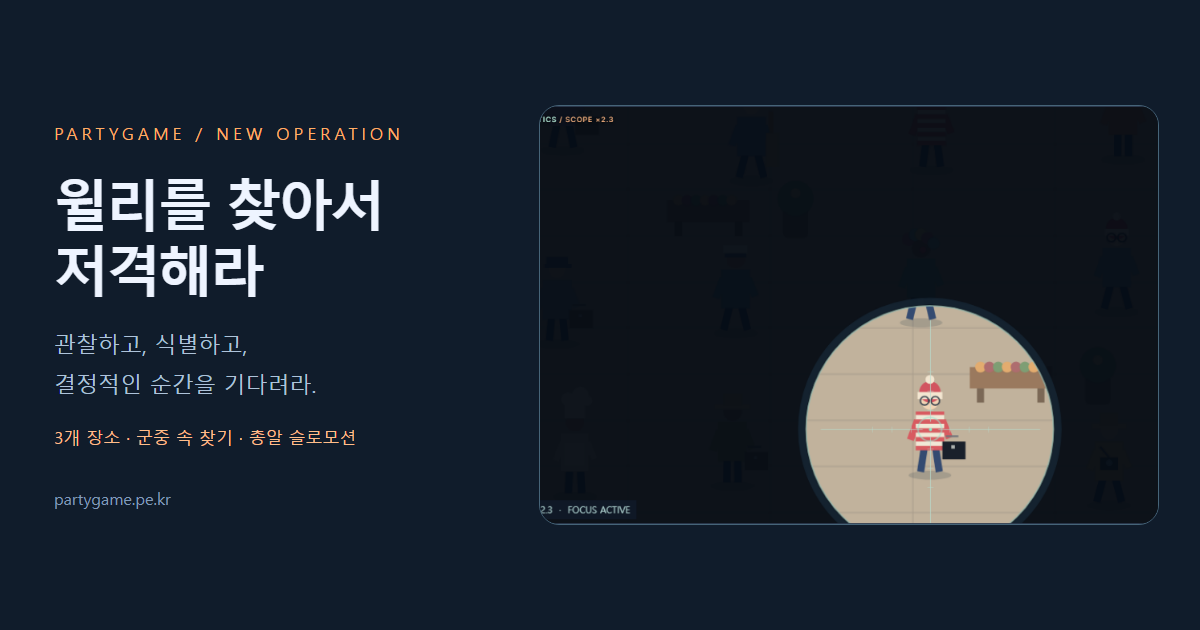
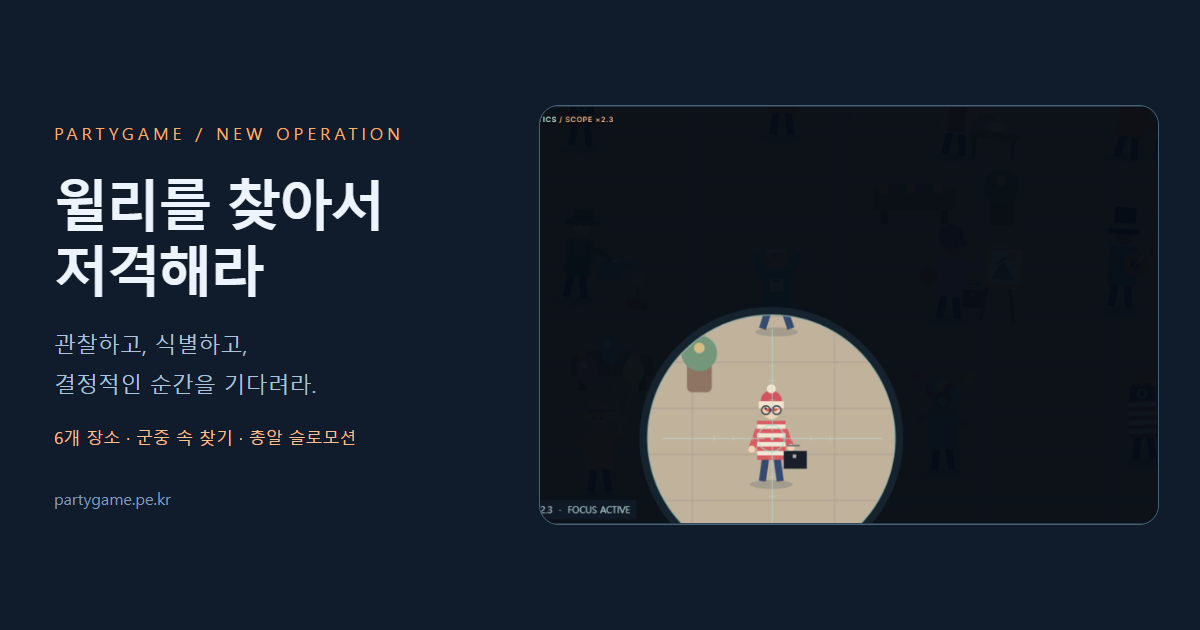
Expand Willy with six maps and eight new character activities

Changed region(s): [[0.5242, 0.4825, 0.8942, 0.8444]]

diff --git a/scripts/shadow-sniper.js b/scripts/shadow-sniper.js
@@ -7,7 +7,7 @@ sniperEl('sniperBest').textContent=sniperBest.toLocaleString('ko-KR');
 function sniperMessage(text){if(lastMessage!==text){lastMessage=text;sniperEl('sniperStatus').textContent=text;}}
 function sniperClearInput(){aimKeys.clear();drag=null;sniper.holding=false;}
 function sniperSync(){
- const s=sniper,m=s.config;sniperEl('missionHud').textContent=String(s.mission+1).padStart(2,'0')+' / 03';sniperEl('timerHud').textContent=s.remaining.toFixed(1);sniperEl('ammoHud').textContent=s.reloadLeft>0?'장전 중':`${s.mag} / ${s.reserve}`;sniperEl('scoreHud').textContent=s.score.toLocaleString('ko-KR');sniperEl('focusText').textContent=Math.ceil(s.focus)+'%';sniperEl('focusBar').style.width=s.focus+'%';sniperEl('alertText').textContent=Math.round(s.alert)+'%';sniperEl('alertBar').style.width=s.alert+'%';sniperEl('targetProgress').textContent=`남은 표적 ${s.targetsLeft}명`;sniperEl('scopeBtn').setAttribute('aria-pressed',String(s.scoped));sniperEl('focusBtn').setAttribute('aria-pressed',String(s.holding));sniperEl('scopeLabel').textContent=s.scoped?' / SCOPE ×2.3':' / 관찰 모드';
+ const s=sniper,m=s.config;sniperEl('missionHud').textContent=String(s.mission+1).padStart(2,'0')+' / '+String(SNIPER_MISSIONS.length).padStart(2,'0');sniperEl('timerHud').textContent=s.remaining.toFixed(1);sniperEl('ammoHud').textContent=s.reloadLeft>0?'장전 중':`${s.mag} / ${s.reserve}`;sniperEl('scoreHud').textContent=s.score.toLocaleString('ko-KR');sniperEl('focusText').textContent=Math.ceil(s.focus)+'%';sniperEl('focusBar').style.width=s.focus+'%';sniperEl('alertText').textContent=Math.round(s.alert)+'%';sniperEl('alertBar').style.width=s.alert+'%';sniperEl('targetProgress').textContent=`남은 표적 ${s.targetsLeft}명`;sniperEl('scopeBtn').setAttribute('aria-pressed',String(s.scoped));sniperEl('focusBtn').setAttribute('aria-pressed',String(s.holding));sniperEl('scopeLabel').textContent=s.scoped?' / SCOPE ×2.3':' / 관찰 모드';
  const playing=s.state==='running';for(const id of ['scopeBtn','fireBtn','reloadBtn','focusBtn'])sniperEl(id).disabled=!playing;
  sniperEl('fireBtn').disabled=!playing||!s.scoped||s.cooldown>0||s.reloadLeft>0;
  sniperEl('reloadBtn').disabled=!playing||s.reloadLeft>0||s.mag===3||s.reserve===0;
@@ -20,7 +20,7 @@ function sniperSync(){
  if(renderedState===s.state)return;renderedState=s.state;sniperClearInput();sniperEl('missionOverlay').hidden=playing||s.state==='shot';sniperEl('restartCampaign').hidden=!['success','failed','won'].includes(s.state);const action=sniperEl('missionAction');action.disabled=!sniperReady;
  if(s.state==='briefing'){sniperEl('overlayCode').textContent=m.code;sniperEl('missionTitle').textContent=m.name;sniperEl('missionBrief').textContent=m.brief;sniperEl('overlayClues').textContent=m.clues.join(' / ');action.textContent='임무 시작';}
  else if(s.state==='paused'){sniperEl('overlayCode').textContent='OPERATION PAUSED';sniperEl('missionTitle').textContent='작전 일시정지';sniperEl('missionBrief').textContent='시간과 표적 이동이 멈췄습니다. 준비되면 임무를 계속하세요.';sniperEl('overlayClues').textContent='';action.textContent='계속하기';}
- else if(['success','failed','won'].includes(s.state)){const won=s.state==='won',success=s.state==='success';sniperEl('overlayCode').textContent=won?'ALL OPERATIONS COMPLETE':success?'TARGETS CONFIRMED':'OPERATION FAILED';sniperEl('missionTitle').textContent=won?'모든 임무를 완수했습니다':success?'임무 완수':'작전 중단';sniperEl('missionBrief').textContent=s.state==='failed'?s.failure:`누적 ${s.score.toLocaleString('ko-KR')}점 · 명중 ${s.totalHits}/${s.totalShots}발. ${won?'세 장소에서 윌리를 찾았습니다.':'다음 작전 브리핑을 확인하세요.'}`;sniperEl('overlayClues').textContent=s.state==='failed'?'재도전하면 현재 미션의 점수와 탄약이 초기화됩니다.':`정확도 ${s.totalShots?Math.round(s.totalHits/s.totalShots*100):0}% · 남은 시간 ${s.remaining.toFixed(1)}초`;action.textContent=won?'새 작전 시작':success?'다음 미션 브리핑':'이 미션 재도전';if(s.state!=='success'){sniperBest=Math.max(sniperBest,s.score);try{localStorage.setItem('shadowSniperBest',String(sniperBest));}catch{}sniperEl('sniperBest').textContent=sniperBest.toLocaleString('ko-KR');window.dispatchEvent(new CustomEvent('partygame:score',{detail:{gameId:'shadow-sniper',score:s.score,wave:s.mission+1}}));}}
+ else if(['success','failed','won'].includes(s.state)){const won=s.state==='won',success=s.state==='success';sniperEl('overlayCode').textContent=won?'ALL OPERATIONS COMPLETE':success?'TARGETS CONFIRMED':'OPERATION FAILED';sniperEl('missionTitle').textContent=won?'모든 임무를 완수했습니다':success?'임무 완수':'작전 중단';sniperEl('missionBrief').textContent=s.state==='failed'?s.failure:`누적 ${s.score.toLocaleString('ko-KR')}점 · 명중 ${s.totalHits}/${s.totalShots}발. ${won?'모든 장소에서 윌리를 찾았습니다.':'다음 작전 브리핑을 확인하세요.'}`;sniperEl('overlayClues').textContent=s.state==='failed'?'재도전하면 현재 미션의 점수와 탄약이 초기화됩니다.':`정확도 ${s.totalShots?Math.round(s.totalHits/s.totalShots*100):0}% · 남은 시간 ${s.remaining.toFixed(1)}초`;action.textContent=won?'새 작전 시작':success?'다음 미션 브리핑':'이 미션 재도전';if(s.state!=='success'){sniperBest=Math.max(sniperBest,s.score);try{localStorage.setItem('shadowSniperBest',String(sniperBest));}catch{}sniperEl('sniperBest').textContent=sniperBest.toLocaleString('ko-KR');window.dispatchEvent(new CustomEvent('partygame:score',{detail:{gameId:'shadow-sniper',score:s.score,wave:s.mission+1}}));}}
 }
 function sniperRestart(){sniper=new SniperGame();renderedState='';renderedMission=-1;sniperSync();}
 sniperEl('missionAction').onclick=()=>{if(!sniperReady)return;if(sniper.state==='briefing')sniper.start();else if(sniper.state==='paused')sniper.pause();else if(sniper.state==='success')sniper.next();else if(sniper.state==='failed')sniper.retry();else if(sniper.state==='won')sniperRestart();sniperSync();sniperEl('gameCanvas').focus({preventScroll:true});};
@@ -59,6 +59,38 @@ function makeSniperScene(){return class extends Phaser.Scene {
    for(const x of [10,920])for(let j=0;j<3;j++){g.lineStyle(1,0xa89cba).lineBetween(x+12,270+j*72,x+15,310+j*72);g.fillStyle([0xdf8f9c,0x94becd,0xcfb570][j]).fillEllipse(x+12,260+j*72,20,27);}
    for(let i=0;i<130;i++){const x=(i*157)%960,y=155+(i*97)%375;g.fillStyle([0xb58d9d,0xc7b880,0x84aca7][i%3],.6).fillRect(x,y,2,4);}
    for(let i=0;i<5;i++){const x=130+i*174,y=227+(i%3)*90;g.lineStyle(2,[0xc698b0,0x90bbb9,0xd7c388][i%3],.5).strokeCircle(x,y,14);g.lineStyle(1,0xaca6bb,.6).lineBetween(x-22,y,x+22,y).lineBetween(x,y-22,x,y+22);g.fillStyle(0xdccba1,.6).fillCircle(x,y,3);}
+  }else if(['garden','pier','station'].includes(m.theme)){
+   if(m.theme==='garden'){
+    g.fillStyle(0xbdded1).fillRect(0,0,960,170);g.fillStyle(0xf5e3a9).fillCircle(805,47,25);
+    for(let i=0;i<9;i++){const x=i*120;g.fillStyle(0x508776).fillCircle(x,115,50);g.fillStyle(0x80ae88).fillCircle(x+18,94,35);}
+    g.fillStyle(0xa4c9b7).fillRect(290,55,335,105);poly([[270,55],[455,6],[645,55]],0xcee6de);
+    for(let i=0;i<8;i++){g.lineStyle(3,0x6b9690).lineBetween(292+i*47,57,292+i*47,158);g.lineStyle(1,0xeff4d8,.8).lineBetween(302+i*43,62,302+i*43,143);}
+    g.fillStyle(0x91b688).fillRect(0,160,960,380);g.fillStyle(0xd7cdb1).fillRect(0,175,960,340);
+    for(let i=0;i<90;i++){const x=i*137%960,y=180+i*67%340;g.lineStyle(1,0xb9b49b,.5).lineBetween(x,y,x+25,y);}
+    for(const x of [22,925])for(let y=210;y<520;y+=70){g.fillStyle(0x658d67).fillCircle(x,y,20);for(let j=0;j<4;j++)g.fillStyle([0xf1b6c1,0xe9d780,0xc2b5df][j%3]).fillCircle(x-10+j*7,y-8+j%2*8,4);}
+   }else if(m.theme==='pier'){
+    g.fillStyle(0xe9baa4).fillRect(0,0,960,100);g.fillStyle(0xf6dda4).fillCircle(720,53,32);g.fillStyle(0x719eac).fillRect(0,100,960,90);
+    for(let i=0;i<35;i++){const x=i*117%960,y=110+i*13%70;g.lineStyle(2,0xf0d9b1,.45).lineBetween(x,y,x+35,y);}
+    g.fillStyle(0xd7ba8c).fillRect(0,180,960,360);g.fillStyle(0xb89679).fillRect(40,180,880,360);
+    for(let y=190;y<540;y+=22){g.lineStyle(1,0x806d62,.5).lineBetween(40,y,920,y);for(let x=60;x<920;x+=110)g.fillStyle(0x725f55,.5).fillCircle(x,y+4,1);}
+    g.lineStyle(5,0xe2c4a0).lineBetween(40,164,920,164);for(let x=45;x<940;x+=70)g.fillStyle(0x8d7567).fillRect(x,153,6,37);
+    for(const x of [80,365,835]){g.fillStyle(0x756f79).fillRect(x,75,4,77);poly([[x-40,122],[x+42,122],[x+28,138],[x-25,138]],0x8b6271);poly([[x-3,78],[x-3,115],[x-32,115]],0xf4dfb9);}
+    for(const x of [14,930]){g.fillStyle(0x8a7064).fillRect(x,60,7,120);for(let i=0;i<5;i++)poly([[x+3,63],[x-45+i*19,35+i%2*17],[x-35+i*18,74]],0x627d69);}
+   }else{
+    g.fillStyle(0x617b8d).fillRect(0,0,960,160);g.fillStyle(0xbfcaca).fillRect(0,20,960,16);
+    for(let x=0;x<960;x+=120){poly([[x,0],[x+60,57],[x+120,0]],0x405c71);g.lineStyle(3,0x8fa4ae).lineBetween(x,0,x+60,57).lineBetween(x+60,57,x+120,0);}
+    g.fillStyle(0x365973).fillRoundedRect(24,65,912,98,17);g.fillStyle(0xe0b776).fillRect(25,133,910,8);
+    for(let i=0;i<15;i++){const x=45+i*59;g.fillStyle(0xa8c7cb).fillRoundedRect(x,78,40,37,4);g.fillStyle(0x607f91).fillRect(x+4,104,32,7);}
+    g.fillStyle(0xc1bcae).fillRect(0,163,960,377);g.fillStyle(0xe5c171).fillRect(0,164,960,8);
+    for(let y=185;y<540;y+=32){g.lineStyle(1,0x9d9f99,.6).lineBetween(0,y,960,y);for(let x=(y%64?0:48);x<960;x+=96)g.lineBetween(x,y,x,y+32);}
+    for(const x of [25,925]){g.fillStyle(0x4e697a).fillRect(x,0,10,220);g.fillStyle(0x304a60).fillRect(x-10,206,30,10);}
+    g.fillStyle(0x263d50).fillRoundedRect(360,13,240,42,4);g.fillStyle(0xe6c990).fillRect(377,26,112,5).fillRect(377,38,84,4);
+    g.fillStyle(0xe9e6cc).fillCircle(558,34,16);g.lineStyle(2,0x405969).lineBetween(558,34,558,23).lineBetween(558,34,566,38);
+   }
+   for(const o of sniper.obstacles){
+    if(m.theme==='garden'){g.fillStyle(0x8a8670).fillRoundedRect(o.x-o.rx,o.y-o.ry,o.rx*2,o.ry*2,8);g.fillStyle(0x63845e).fillEllipse(o.x,o.y-6,53,26);for(let j=0;j<7;j++)g.fillStyle([0xeaa6b8,0xebd277,0xb49dd0][j%3]).fillCircle(o.x-22+j*7,o.y-7+(j%2)*6,4);}
+    else{g.fillStyle(m.theme==='pier'?0x9e7371:0x667f81).fillRect(o.x-o.rx,o.y-10,o.rx*2,8).fillRect(o.x-o.rx,o.y+1,o.rx*2,5);g.fillStyle(0x5a666b).fillRect(o.x-o.rx+3,o.y+6,4,6).fillRect(o.x+o.rx-7,o.y+6,4,6);}
+   }
   }else{
    poly([[0,148],[140,8],[290,151]],0xbfd0db);poly([[200,153],[410,0],[610,153]],0xd6e0e4);poly([[510,153],[760,9],[960,153]],0xb9cbdc);poly([[335,55],[410,0],[482,55],[441,46],[412,66],[387,45]],0xf0ece5);
    g.fillStyle(0xd6e2e3).fillRect(0,155,960,385);g.fillStyle(0xb8cfd8,.6).fillEllipse(465,340,890,310);for(let y=170;y<540;y+=46){g.lineStyle(1,0xa1becd,.4).lineBetween(0,y,960,y+15);}
@@ -76,11 +108,25 @@ function makeSniperScene(){return class extends Phaser.Scene {
    if(a.stripes)for(let i=0;i<4;i++)rect(-8,-32+i*5,16,2.5,0xf0e8d6);
    if(a.cap){rect(-6,-47,12,5,0x506888);rect(-7,-43,15,2,0x506888);}if(a.helmet){circle(0,-44,6,0xe8ca76);rect(-8,-43,16,3,0xe8ca76);}if(a.visor){rect(-7,-45,14,7,0x435d69);rect(-6,-44,12,3,0x9de9d1);}
    if(a.hat==='beanie'){circle(0,-45,6,0xd25460);rect(-7,-45,14,4,0xf3e6d1);circle(0,-52,2.5,0xf3e6d1);}if(a.hat==='sailor'){rect(-7,-48,14,5,0xe4e4d8);rect(-6,-43,12,2,0x526b8a);}if(a.hat==='chef'){rect(-6,-52,12,10,0xf2ead8);circle(-4,-53,4,0xf2ead8);circle(3,-55,5,0xf2ead8);circle(7,-52,3,0xf2ead8);rect(-6,-29,12,14,0xf0e6d6);}if(a.hat==='beret'){circle(-2,-46,7,0x816590);rect(-7,-44,14,3,0x816590);}if(a.hat==='sunhat'||a.hat==='explorer'){rect(-10,-44,20,3,0xe3c391);rect(-5,-50,10,7,0xd5b17b);}if(a.hat==='clown'){for(let j=0;j<5;j++)circle(-7+j*3.5,-45-Math.sin(j)*3,3.5,[0xc87982,0x8bbdc3,0xe7cf82][j%3]);circle(1,-39,2,0xdf6d77);}if(a.hat==='tophat'){rect(-6,-56,12,14,0x404155);rect(-9,-44,18,3,0x404155);rect(-6,-47,12,3,0xc8b88f);}
+   if(['garden','fisher','boater'].includes(a.hat)){const color=a.hat==='garden'?0x5c8662:a.hat==='fisher'?0xa58a62:0xe7ca91;rect(-6,-50,12,8,color);rect(-10,-44,20,3,color);rect(-6,-46,12,2,a.hat==='boater'?0xb7757a:0x455e57);}
+   if(a.hat==='headband')rect(-6,-45,12,2,0xf1ead5);
+   if(a.hat==='band'){rect(-6,-53,12,11,0x4c647a);rect(-8,-44,16,2,0xe2c385);circle(0,-55,3,0xd7a976);}
+   if(a.hat==='baker'){circle(-3,-48,5,0xf2e7cf);circle(3,-48,5,0xf2e7cf);rect(-6,-46,12,4,0xf2e7cf);rect(-5,-29,10,16,0xab7b60);}
+   if(a.role==='정원사'){rect(-6,-24,12,12,0x4d7667);line(-5,-32,-4,-22,2,0x4d7667);line(5,-32,4,-22,2,0x4d7667);}
+   if(a.role==='과학자'){line(0,-33,0,-13,1,0x829b9c);rect(-6,-25,4,5,0x9cbcc5);}
    if(!fallen){const glance=(a.motion?.gaze??pose.facing??1)*1.2;circle(-2+glance,-41,.65,0x394754);circle(2+glance,-41,.65,0x394754);}
    if(a.glasses){for(const x of [-3,3]){const p=pt(x,-40);g.lineStyle(.8,0x3d4651).strokeCircle(p.x,p.y,2.4);}line(-1,-40,1,-40,.6,0x3d4651);}
    if(a.scarf){rect(-7,-35,14,3.5,a.scarf);rect(3,-32,4,9,a.scarf);}if(a.case){line(9,-20,16,-20,1,0x6f737b);rect(7,-17,13,10,a.target?0x19202b:0x71615b);rect(12,-15,2,2,0xadb2b0);}
    if(fallen)return;
    const action=a.action,steam=(x,y)=>{for(let i=0;i<3;i++){const h=(t*8+i*5)%16;circle(x+Math.sin(t*2+i)*2,y-h,1,0xf4e9d1);}},note=(x,y)=>{circle(x,y,2,0xeacb7f);line(x+2,y,x+2,y-8,1,0xeacb7f);line(x+2,y-8,x+6,y-6,1,0xeacb7f);};
+   if(action==='water'){rect(12,-22,13,10,0x749eae);line(22,-19,31,-23,3,0x749eae);for(let i=0;i<4;i++){const q=(pose.prop+i*.23)%1;circle(30+q*6,-22+q*20,1,0x9cd6de);}rect(29,-3,12,6,0xb28b69);line(35,-4,35,-13,2,0x6c9d69);circle(35,-14,4,0xe6bd8d);}
+   if(action==='read'){shape([[-11,-32],[0,-29],[11,-32],[11,-20],[0,-17],[-11,-20]],0xeee3c6);line(0,-29,0,-17,1,0x987f74);for(let j=0;j<3;j++){line(-8,-28+j*3,-3,-27+j*3,.6,0x9a9583);line(3,-27+j*3,8,-28+j*3,.6,0x9a9583);}if(pose.prop>.8)line(0,-29,5,-32+(pose.prop-.8)*50,1,0xf7efd9);}
+   if(action==='fish'){line(right.x,right.y,31,-65,1.5,0x8b755f);line(31,-65,41,-5+Math.sin(t*1.8)*3,.7,0xc5d4ce);circle(41,-3+Math.sin(t*1.8)*3,2,0xe79885);}
+   if(action==='balloon')for(let j=0;j<3;j++){const x=-6+j*13+pose.prop*4,y=-68-(j%2)*12;line(right.x,right.y,x,y+7,.7,0xe3d6be);const p=pt(x,y);g.fillStyle([0xe99fa9,0x8ccbd3,0xe9cf82][j]).fillEllipse(p.x,p.y,12,16);circle(x-2,y-3,2,0xf7e9d5);}
+   if(action==='inspect'){line(right.x,right.y,right.x+6,right.y-7,2,0x6b727d);const p=pt(right.x+7,right.y-10);g.lineStyle(1.7,0xb6d9dc).strokeCircle(p.x,p.y,5);}
+   if(action==='stretch'){rect(-4,-28,8,7,0xe8eee1);line(-2,-27,2,-27,1,0x44888f);}
+   if(action==='drum'){rect(-12,-22,24,14,0xb37178);rect(-13,-24,26,3,0xf0d7a4);rect(-13,-10,26,3,0xe3bd83);for(let i=0;i<4;i++)line(-10+i*6,-21,-7+i*6,-11,1,0xf0d7a4);line(left.x,left.y,0,-23,1.5,0xdfbc88);line(right.x,right.y,5,-23,1.5,0xdfbc88);}
+   if(action==='knead'){rect(8,-15,28,4,0xa18163);line(11,-11,11,0,2,0x806a59);line(33,-11,33,0,2,0x806a59);const p=pt(22,-18);g.fillStyle(0xf1dcb0).fillEllipse(p.x,p.y,14+Math.sin(t*3.2)*2,6);line(left.x,left.y,right.x,right.y,4,0xb9976f);}
    if(action==='photo'){const y=pose.prop?-41:-26;rect(-7,y,14,8,0x3f4d59);circle(0,y+4,3,0x8da9ba);circle(0,y+4,1.5,0x203c50);if(pose.prop&&t%4>1.95&&t%4<2.12){line(8,y,16,y-7,2,0xfff1b0);line(10,y+2,20,y+2,2,0xfff1b0);}}
    if(action==='carry'){rect(-14,-27,28,17,0xb48a5f);rect(-12,-24,24,2,0xe5bc80);line(-12,-12,12,-25,2,0x816449);line(-12,-25,12,-12,2,0x816449);}
    if(action==='paint'){line(23,-39,18,0,2,0x9c7758);line(29,-39,37,0,2,0x9c7758);rect(19,-43,21,24,0xe5c58e);rect(21,-41,17,19,0xf4ead5);shape([[22,-24],[28,-35],[36,-24]],0x7fae9a);circle(33,-37,3,0xe6b268);circle(left.x,left.y,5,0xb88c67);circle(left.x-2,left.y,1.5,0xd96573);line(right.x,right.y,right.x+6,right.y-4,1,0x485979);}

diff --git a/arcade/shadow-sniper.html b/arcade/shadow-sniper.html
@@ -2,11 +2,11 @@
 <html lang="ko"><head>
 <meta charset="UTF-8"><meta name="viewport" content="width=device-width, initial-scale=1, viewport-fit=cover">
 <title>윌리를 찾아서 저격해라 | 저격 미션 게임 · PartyGame</title>
-<meta name="description" content="항구 시장, 야간 축제, 눈꽃 마을의 군중 속에서 윌리를 찾고 저격하세요. 총알 슬로모션, 스코프 조준과 다양한 캐릭터를 만나는 무료 브라우저 게임.">
+<meta name="description" content="항구 시장·축제·눈꽃 마을·식물원·해변·중앙역의 군중 속에서 윌리를 찾고 저격하세요. 총알 슬로모션, 스코프 조준과 다양한 캐릭터를 만나는 무료 브라우저 게임.">
 <meta name="keywords" content="저격 게임,스나이퍼,암살 미션,브라우저 게임,무료 게임"><meta name="robots" content="index, follow"><meta name="theme-color" content="#0d111a">
 <link rel="canonical" href="https://partygame.pe.kr/arcade/shadow-sniper.html"><link rel="icon" href="/favicon.ico">
-<meta property="og:type" content="website"><meta property="og:site_name" content="PartyGame"><meta property="og:title" content="윌리를 찾아서 저격해라 | 저격 미션 게임"><meta property="og:description" content="개성 있는 인물들 속에서 윌리를 찾는 세 개의 스테이지."><meta property="og:url" content="https://partygame.pe.kr/arcade/shadow-sniper.html"><meta property="og:image" content="https://partygame.pe.kr/assets/games/shadow-sniper/share.png"><meta property="og:image:width" content="1200"><meta property="og:image:height" content="630"><meta property="og:image:alt" content="윌리를 찾아서 저격해라 스코프 조준 게임 화면">
-<meta name="twitter:card" content="summary_large_image"><meta name="twitter:title" content="윌리를 찾아서 저격해라"><meta name="twitter:description" content="항구 시장·별빛 축제·눈꽃 마을에서 윌리를 찾고 저격하세요."><meta name="twitter:image" content="https://partygame.pe.kr/assets/games/shadow-sniper/share.png">
+<meta property="og:type" content="website"><meta property="og:site_name" content="PartyGame"><meta property="og:title" content="윌리를 찾아서 저격해라 | 저격 미션 게임"><meta property="og:description" content="개성 있는 인물들 속에서 윌리를 찾는 여섯 개의 스테이지."><meta property="og:url" content="https://partygame.pe.kr/arcade/shadow-sniper.html"><meta property="og:image" content="https://partygame.pe.kr/assets/games/shadow-sniper/share.png"><meta property="og:image:width" content="1200"><meta property="og:image:height" content="630"><meta property="og:image:alt" content="윌리를 찾아서 저격해라 스코프 조준 게임 화면">
+<meta name="twitter:card" content="summary_large_image"><meta name="twitter:title" content="윌리를 찾아서 저격해라"><meta name="twitter:description" content="여섯 장소에서 윌리를 찾고 저격하세요."><meta name="twitter:image" content="https://partygame.pe.kr/assets/games/shadow-sniper/share.png">
 <script>(function(w,d,s,l,i){w[l]=w[l]||[];w[l].push({'gtm.start':new Date().getTime(),event:'gtm.js'});var f=d.getElementsByTagName(s)[0],j=d.createElement(s),dl=l!='dataLayer'?'&l='+l:'';j.async=true;j.src='https://www.googletagmanager.com/gtm.js?id='+i+dl;f.parentNode.insertBefore(j,f);})(window,document,'script','dataLayer','GTM-T2KDKBN8');</script>
 <meta name="google-adsense-account" content="ca-pub-1087435977438565"><script async src="https://pagead2.googlesyndication.com/pagead/js/adsbygoogle.js?client=ca-pub-1087435977438565" crossorigin="anonymous"></script>
 <script src="/scripts/site-layout.js" defer></script><link rel="stylesheet" href="/styles/site-design.css">
@@ -18,9 +18,9 @@ body{margin:0}button{font:inherit;cursor:pointer}button:disabled{opacity:.4;curs
 </style>
 </head><body><site-header></site-header><noscript><p>게임을 실행하려면 JavaScript를 켜 주세요.</p><iframe src="https://www.googletagmanager.com/ns.html?id=GTM-T2KDKBN8" height="0" width="0" style="display:none;visibility:hidden"></iframe></noscript>
 <main class="sniper-shell" id="mainContent" tabindex="-1">
-<header class="sniper-heading"><div><div class="kicker">HIDDEN IN PLAIN SIGHT</div><h1>윌리를 찾아서 저격해라</h1><p class="sub">빨간 모자, 줄무늬 옷, 그리고 결정적인 단서.<br>항구 시장부터 눈꽃 마을까지, 군중 속 윌리를 찾아라.</p></div><span class="classification">FIND WILLY / 3 STAGES</span></header>
+<header class="sniper-heading"><div><div class="kicker">HIDDEN IN PLAIN SIGHT</div><h1>윌리를 찾아서 저격해라</h1><p class="sub">빨간 모자, 줄무늬 옷, 그리고 결정적인 단서.<br>항구 시장부터 중앙역까지, 군중 속 윌리를 찾아라.</p></div><span class="classification">FIND WILLY / 6 STAGES</span></header>
 <div class="sniper-layout"><section class="sniper-panel" aria-label="저격 미션 게임">
-<div class="sniper-hud"><div><small>OPERATION</small><strong id="missionHud">01 / 03</strong></div><div><small>남은 시간</small><strong id="timerHud">100.0</strong></div><div><small>탄창 / 예비</small><strong id="ammoHud" class="amber">3 / 9</strong></div><div><small>점수</small><strong id="scoreHud">0</strong></div></div>
+<div class="sniper-hud"><div><small>OPERATION</small><strong id="missionHud">01 / 06</strong></div><div><small>남은 시간</small><strong id="timerHud">100.0</strong></div><div><small>탄창 / 예비</small><strong id="ammoHud" class="amber">3 / 9</strong></div><div><small>점수</small><strong id="scoreHud">0</strong></div></div>
 <div class="sniper-stage" id="sniperViewport"><canvas id="gameCanvas" tabindex="0" aria-label="마우스 또는 드래그로 조준, 스페이스로 스코프 전환, F로 사격. 보호 대상을 쏘지 마세요."></canvas><div class="scope-note" aria-hidden="true">SHADOW OPTICS <span id="scopeLabel"> / 관찰 모드</span></div><div class="sniper-overlay" id="missionOverlay"><div><div class="kicker" id="overlayCode">OPERATION 01</div><h2 id="missionTitle">북적이는 항구 시장</h2><p id="missionBrief">임무를 불러오고 있습니다.</p><div class="brief-clues" id="overlayClues"></div><div class="overlay-actions"><button class="sniper-btn primary" id="missionAction" disabled>전장 준비 중…</button><button class="sniper-btn" id="restartCampaign" hidden>처음부터</button></div></div></div></div>
 <p id="fieldIntel" style="margin:0;padding:9px 14px;background:#101a29;border-top:1px solid #2c3b50;font-size:11px;color:#abdccc;min-height:34px">스코프로 인물의 외형을 관찰하세요.</p>
 <div class="sniper-controls"><button class="sniper-btn" id="scopeBtn" aria-pressed="false" disabled>스코프<kbd>SPACE</kbd></button><button class="sniper-btn primary" id="fireBtn" disabled>사격<kbd>F</kbd></button><button class="sniper-btn" id="reloadBtn" disabled>재장전<kbd>R</kbd></button><button class="sniper-btn" id="focusBtn" aria-pressed="false" disabled>집중<kbd>SHIFT</kbd></button><button class="sniper-btn" id="pauseSniper" disabled>일시정지<kbd>P</kbd></button></div>
@@ -31,7 +31,7 @@ body{margin:0}button{font:inherit;cursor:pointer}button:disabled{opacity:.4;curs
 <section class="sniper-panel brief-card"><div class="kicker">PERSONAL RECORD</div><h2>이 브라우저 최고 기록</h2><div class="sniper-best" id="sniperBest">0</div><p>정확한 사격과 빠른 임무 완수에 추가 점수가 주어집니다. 미션 재도전 시 해당 미션의 점수는 초기화됩니다.</p></section>
 <section class="sniper-panel brief-card"><h2>윌리를 찾아서 저격해라 TOP 10</h2><ol id="firebaseRankingList"><li class="sub">온라인 기록을 불러오는 중…</li></ol><p id="firebaseRankingStatus" aria-live="polite">로그인 회원의 최고 기록을 저장합니다.</p></section>
 </aside></div>
-<section class="sniper-guide"><div class="kicker">FIELD MANUAL</div><h2>관찰이 먼저, 사격은 그다음</h2><div class="sniper-guide-grid"><div><h3>01. 단서를 모두 확인하세요</h3><p>빨간 털모자, 줄무늬 옷, 둥근 안경과 장소별 소지품을 조합해 윌리를 구별하세요. 비슷한 옷을 입은 보호 대상도 등장합니다. 스코프로 인물을 관찰하면 외형 정보가 표시됩니다.</p></div><div><h3>02. 기회를 기다리세요</h3><p>표적은 계속 이동하고, 마지막 미션에서는 가림막 뒤에 숨기도 합니다. 스코프를 켜고 집중하면 조준선의 흔들림이 줄어듭니다. 집중력이 소진되면 잠시 회복해야 합니다.</p></div><div><h3>03. 세 임무를 완수하세요</h3><p>항구 시장, 별빛 축제, 눈꽃 마을까지 이어지는 단일 플레이 작전입니다. 실패한 미션은 다시 도전할 수 있습니다. 각 장소에는 선원, 요리사, 화가, 관광객 등 다양한 인물과 윌리를 닮은 인물들이 등장합니다. 발사하면 총알이 날아가는 슬로모션과 명중·쓰러짐 연출이 이어집니다.</p></div></div><p class="sniper-help">모바일: 전장을 드래그해 조준하고 아래 사격 버튼을 누르세요. 스코프에서도 같은 방식으로 조준합니다. PC: 우클릭으로도 스코프를 전환할 수 있습니다.</p></section>
+<section class="sniper-guide"><div class="kicker">FIELD MANUAL</div><h2>관찰이 먼저, 사격은 그다음</h2><div class="sniper-guide-grid"><div><h3>01. 단서를 모두 확인하세요</h3><p>빨간 털모자, 줄무늬 옷, 둥근 안경과 장소별 소지품을 조합해 윌리를 구별하세요. 비슷한 옷을 입은 보호 대상도 등장합니다. 스코프로 인물을 관찰하면 외형 정보가 표시됩니다.</p></div><div><h3>02. 기회를 기다리세요</h3><p>표적은 계속 이동하고, 눈꽃 마을에서는 가림막 뒤에 숨기도 합니다. 스코프를 켜고 집중하면 조준선의 흔들림이 줄어듭니다. 집중력이 소진되면 잠시 회복해야 합니다.</p></div><div><h3>03. 여섯 임무를 완수하세요</h3><p>항구 시장부터 식물원, 해변 산책로, 중앙역까지 이어지는 단일 플레이 작전입니다. 실패한 미션은 다시 도전할 수 있습니다. 각 장소에는 선원, 요리사, 화가, 관광객 등 다양한 인물과 윌리를 닮은 인물들이 등장합니다. 발사하면 총알이 날아가는 슬로모션과 명중·쓰러짐 연출이 이어집니다.</p></div></div><p class="sniper-help">모바일: 전장을 드래그해 조준하고 아래 사격 버튼을 누르세요. 스코프에서도 같은 방식으로 조준합니다. PC: 우클릭으로도 스코프를 전환할 수 있습니다.</p></section>
 </main><site-footer></site-footer>
 <script type="module">import { initializeGameRanking } from '/scripts/firebase-game-ranking.js';initializeGameRanking({gameId:'shadow-sniper',gameName:'윌리를 찾아서 저격해라'});</script>
 <script src="https://cdn.jsdelivr.net/npm/phaser@4.2.1/dist/phaser.min.js"></script><script src="/scripts/sniper-core.js"></script><script src="/scripts/shadow-sniper.js"></script>

diff --git a/scripts/sniper-core.js b/scripts/sniper-core.js
@@ -14,10 +14,18 @@ function makeWillyCrowd(stage){
  {role:'스키어',coat:0xe7a7aa,visor:true,desc:'분홍 외투 · 초록 고글'},
  {role:'줄무늬 관광객',coat:0xca727a,stripes:true,hat:'sunhat',glasses:true,desc:'빨강 줄무늬 · 밀짚모자 · 안경'},
  {role:'빨간 모자 관광객',coat:0x7fa0b4,hat:'beanie',glasses:true,desc:'빨간 털모자 · 파란 옷 · 안경'},
- {role:'닮은 관광객',coat:0xd4656a,stripes:true,hat:'beanie',glasses:true,desc:'빨강 줄무늬 · 빨간 털모자 · 안경 · 가방과 스카프 없음'}];
- const cols=[9,11,13][stage],rows=[3,4,4][stage],gap=820/(cols-1),people=[];
+ {role:'닮은 관광객',coat:0xd4656a,stripes:true,hat:'beanie',glasses:true,desc:'빨강 줄무늬 · 빨간 털모자 · 안경 · 가방과 스카프 없음'},
+ {role:'정원사',coat:0x79a573,hat:'garden',desc:'초록 챙모자 · 멜빵 작업복'},
+ {role:'독서가',coat:0xb889ad,hat:'beret',glasses:true,desc:'자주색 외투 · 책 · 베레모'},
+ {role:'낚시꾼',coat:0xc6a16b,hat:'fisher',desc:'갈색 낚시 모자 · 낚싯대'},
+ {role:'풍선 상인',coat:0xeab27c,hat:'boater',desc:'리본 모자 · 색색의 풍선'},
+ {role:'과학자',coat:0xe0e9df,glasses:true,hat:'none',desc:'흰 실험 가운 · 확대경'},
+ {role:'운동선수',coat:0x65babc,hat:'headband',desc:'청록 운동복 · 흰 머리띠'},
+ {role:'드러머',coat:0xc78594,hat:'band',desc:'군악대 모자 · 작은 북'},
+ {role:'제빵사',coat:0xe3c8a4,hat:'baker',desc:'갈색 앞치마 · 둥근 제빵 모자'}];
+ const cols=[9,11,13,12,13,14][stage],rows=[3,4,4,4,4,4][stage],gap=820/(cols-1),people=[];
  for(let row=0;row<rows;row++)for(let col=0;col<cols;col++){const i=row*cols+col,role=roles[(i*5+stage*3)%roles.length];people.push({...role,x:70+col*gap+(i*11%17)-8,y:(stage===0?265+row*94:196+row*89)+(i*17%23)-11,range:4+(i*7%8),speed:.16+(i%4)*.05,skin:[0xe6c6a2,0xbe917a,0x947767,0xf2d4b5][i%4]});}
- const slot=people.splice([15,28,20][stage],1)[0];
+ const slot=people.splice([15,28,20,31,35,43][stage],1)[0];
  return {extras:people,position:slot};
 }
 const SNIPER_MISSIONS = [
@@ -25,20 +33,27 @@ const SNIPER_MISSIONS = [
  {name:'한밤의 별빛 축제',code:'02 / STARLIGHT FESTIVAL',theme:'festival',time:110,color:0x302b59,accent:0xe2b2ec,brief:'불빛과 공연으로 가득한 축제에서 윌리를 찾아보세요. 이번에는 줄무늬 옷과 빨간 털모자, 둥근 안경에 노란 스카프를 두르고 있습니다. 닮은 관광객에게 주의하세요.',clues:['빨강·흰 줄무늬 + 빨간 털모자','둥근 안경','노란 스카프'],targets:[],extras:[]},
  {name:'눈꽃 산장 마을',code:'03 / SNOWY VILLAGE',theme:'snow',time:120,color:0x9bb6cf,accent:0xb5e7e1,brief:'눈 내리는 산장 마을에 윌리가 숨어 있습니다. 빨간 줄무늬 옷과 털모자, 안경, 초록 스카프를 찾아보세요. 때때로 이동식 가림막 뒤에 숨으니 모습을 드러낼 때를 기다리세요.',clues:['빨강·흰 줄무늬 + 빨간 털모자','둥근 안경','초록 스카프 · 가림막 주의'],targets:[],extras:[]}
 ];
-SNIPER_MISSIONS.forEach((m,i)=>{const c=makeWillyCrowd(i);m.extras=c.extras;m.targets=[{...c.position,role:'윌리',coat:0xd85b61,stripes:true,hat:'beanie',glasses:true,case:i===0,scarf:i===1?0xf5d16a:i===2?0x6ed2a3:null,camera:false,instrument:false,visor:false,helmet:false,cap:false,cover:i===2,desc:i===0?'빨강 줄무늬 · 빨간 털모자 · 둥근 안경 · 검은 가방':i===1?'빨강 줄무늬 · 빨간 털모자 · 둥근 안경 · 노란 스카프':'빨강 줄무늬 · 빨간 털모자 · 둥근 안경 · 초록 스카프',target:true}];});
+SNIPER_MISSIONS.push(
+ {name:'햇살 가득 식물원',code:'04 / BOTANICAL GARDEN',theme:'garden',time:125,color:0xb2d4bb,accent:0xe5c583,brief:'온실과 화단 사이에서 윌리를 찾으세요. 정원사와 독서가, 나비를 관찰하는 과학자가 모였습니다. 파란 스카프를 확인하세요.',clues:['빨강·흰 줄무늬 + 빨간 털모자','둥근 안경','파란 스카프']},
+ {name:'노을빛 해변 산책로',code:'05 / SUNSET PIER',theme:'pier',time:130,color:0xe8b99e,accent:0xf2d38b,brief:'노을이 지는 해변 산책로에서 윌리를 찾으세요. 낚시와 풍선, 북 연주에 시선을 빼앗기지 마세요. 보라 스카프가 마지막 단서입니다.',clues:['빨강·흰 줄무늬 + 빨간 털모자','둥근 안경','보라 스카프']},
+ {name:'분주한 중앙역',code:'06 / CENTRAL STATION',theme:'station',time:140,color:0x9eafba,accent:0xe7bd72,brief:'열차가 도착한 중앙역에서 마지막 윌리를 찾으세요. 책을 읽는 승객과 빵을 만드는 상인 사이, 주황 스카프를 찾아보세요.',clues:['빨강·흰 줄무늬 + 빨간 털모자','둥근 안경','주황 스카프']}
+);
+SNIPER_MISSIONS.forEach((m,i)=>{const c=makeWillyCrowd(i);m.extras=c.extras;m.targets=[{...c.position,role:'윌리',coat:0xd85b61,stripes:true,hat:'beanie',glasses:true,case:i===0,scarf:[null,0xf5d16a,0x6ed2a3,0x6ba8e5,0xbc91d9,0xf1a261][i],camera:false,instrument:false,visor:false,helmet:false,cap:false,cover:i===2,desc:m.clues.join(' · '),target:true}];});
 // Activity poses drive both movement and rendering, so visible bodies and hit tests stay together.
 function sniperActivity(actor,theme){
  const byTheme={
   harbor:{'선원':'carry','요리사':'cook','화가':'paint','관광객':'photo','정비사':'repair','광대':'juggle','탐험가':'shop','음악가':'play','우편배달부':'walk','스키어':'sip','줄무늬 관광객':'photo','빨간 모자 관광객':'shop','닮은 관광객':'talk','윌리':'walk'},
   festival:{'선원':'clap','요리사':'serve','화가':'paint','관광객':'photo','정비사':'repair','광대':'juggle','탐험가':'dance','음악가':'play','우편배달부':'dance','스키어':'clap','줄무늬 관광객':'photo','빨간 모자 관광객':'sip','닮은 관광객':'wave','윌리':'dance'},
   snow:{'선원':'shovel','요리사':'serve','화가':'paint','관광객':'photo','정비사':'shovel','광대':'snowman','탐험가':'skate','음악가':'play','우편배달부':'walk','스키어':'ski','줄무늬 관광객':'snowman','빨간 모자 관광객':'sip','닮은 관광객':'wave','윌리':'walk'}
- };return byTheme[theme][actor.role]||'walk';
+ };const newRoles={'정원사':'water','독서가':'read','낚시꾼':'fish','풍선 상인':'balloon','과학자':'inspect','운동선수':'stretch','드러머':'drum','제빵사':'knead'};
+ return newRoles[actor.role]||(byTheme[theme]||byTheme[theme==='pier'?'harbor':'festival'])[actor.role]||'walk';
 }
 const sniperClamp=(n,min,max)=>Math.max(min,Math.min(max,n));
 // Ground footprints of the tables, planters and benches drawn by buildCity.
 function sniperObstacles(theme){
  if(theme==='harbor')return Array.from({length:5},(_,i)=>{const x=120+i*170,y=298+(i%2)*94;return[{x,y,rx:26,ry:14},{x:x+49,y,rx:13,ry:16}];}).flat();
  if(theme==='snow')return Array.from({length:4},(_,i)=>({x:140+i*215,y:222+(i%3)*89,rx:22,ry:14}));
+ if(['garden','pier','station'].includes(theme))return Array.from({length:4},(_,i)=>({x:150+i*220,y:245+(i%2)*160,rx:theme==='garden'?30:23,ry:theme==='garden'?19:12}));
  return [];
 }
 // Visibility graph paths go around inflated ground footprints, not through furniture.
@@ -120,6 +135,22 @@ function sniperActorPose(a,time){
   pose.left={x:-14,y:-40};pose.right={x:14,y:-40};pose.bob=3;pose.lean=-.08*pose.facing;
  }else if(a.action==='look'){
   pose.right={x:12,y:-30};pose.lean=Math.sin(t*1.4)*.04;
+ }else if(a.action==='water'){
+  pose.right={x:19+beat*2,y:-22};pose.left={x:4,y:-22};pose.lean=.1;pose.prop=(t%2)/2;
+ }else if(a.action==='read'){
+  pose.left={x:-8,y:-28};pose.right={x:8,y:-28+Math.sin(t*1.5)};pose.lean=.035;pose.prop=(t%5)/5;
+ }else if(a.action==='fish'){
+  pose.left={x:6,y:-26};pose.right={x:16,y:-30+Math.sin(t*1.8)*3};pose.lean=beat*.03;
+ }else if(a.action==='balloon'){
+  pose.left={x:-12,y:-25};pose.right={x:12,y:-32+beat*2};pose.prop=Math.sin(t*1.4);
+ }else if(a.action==='inspect'){
+  pose.right={x:10+beat*3,y:-39};pose.left={x:-9,y:-22};pose.lean=.08+beat*.03;
+ }else if(a.action==='stretch'){
+  pose.left={x:-13,y:-45-beat*7};pose.right={x:13,y:-45+beat*7};pose.lean=beat*.14;pose.legL.x=-8;pose.legR.x=8;
+ }else if(a.action==='drum'){
+  pose.left={x:-12,y:-23+beat*7};pose.right={x:12,y:-23-beat*7};pose.bob=-Math.abs(beat);
+ }else if(a.action==='knead'){
+  pose.left={x:12,y:-20+beat*3};pose.right={x:22,y:-20+beat*3};pose.lean=.1+Math.max(0,beat)*.1;
  }else if(a.action==='rest'){
   pose.left={x:-8,y:-16};pose.right={x:8,y:-16};pose.lean=.1;pose.bob=1+Math.sin(t*2.6)*.7;
  }
@@ -138,7 +169,7 @@ class SniperGame {
     this.obstacles=sniperObstacles(this.config.theme);
     for(const a of this.actors){
       a.homeAction=a.action;
-      const stationary=['paint','cook','repair','shop','snowman','shovel','play'].includes(a.action);
+      const stationary=['paint','cook','repair','shop','snowman','shovel','play','water','fish','knead','drum'].includes(a.action);
       a.motion={x:a.origin,y:a.originY,vx:0,vy:0,gait:a.phase,facing:a.id%2?1:-1,
         state:'activity',timer:1+this.random()*4,pace:14+this.random()*11,
         courage:this.random(),stationary,goal:{x:a.origin,y:a.originY},blend:1,fromPose:null,
@@ -149,7 +180,7 @@ class SniperGame {
       this.constrainActor(a);
       a.origin=a.motion.x;a.originY=a.motion.y;
     }
-    this.interests=this.actors.filter(a=>['play','paint','cook','snowman'].includes(a.homeAction))
+    this.interests=this.actors.filter(a=>['play','paint','cook','snowman','water','knead','drum'].includes(a.homeAction))
       .map(a=>({id:a.id,x:a.origin,y:a.originY,kind:a.homeAction}));
   }
   setBehavior(a,state,action,seconds){
@@ -208,7 +239,7 @@ class SniperGame {
     }
     candidates.sort((a,b)=>b.score-a.score);
     for(const c of candidates){if(!this.planRoute(a,c.goal))continue;
-      b.visit={id:c.spot.id,slot:c.slot,focus:{x:c.spot.x,y:c.spot.y},action:a.camera?'photo':c.spot.kind==='play'?'clap':'look'};b.replans=0;
+      b.visit={id:c.spot.id,slot:c.slot,focus:{x:c.spot.x,y:c.spot.y},action:a.camera?'photo':['play','drum'].includes(c.spot.kind)?'clap':'look'};b.replans=0;
       this.setBehavior(a,'travel','walk',12);return true;
     }
     return false;

diff --git a/rules/games/shadow-sniper.md b/rules/games/shadow-sniper.md
@@ -2,7 +2,9 @@
 
 - 페이지 `/arcade/shadow-sniper.html`, 게임 ID `shadow-sniper`, Phaser 4.2.1, 960 × 540.
 - 각 장소의 군중 속에서 외형 단서를 조합해 윌리를 식별. 다른 인물 오인 사격 시 실패.
-- 항구 시장 27명, 별빛 축제 44명, 눈꽃 산장 마을 52명. 선원·요리사·화가·광대·관광객 등 13개 복장과 소품 조합. 윌리의 위치는 매 도전마다 다른 인물과 교환하여 무작위 배치.
+- 6개 미션: 항구 시장 27명, 별빛 축제 44명, 눈꽃 산장 마을 52명, 식물원 48명, 노을 해변 산책로 52명, 중앙역 56명. 군중 역할 21종과 윌리로 구성. 윌리의 위치는 매 도전마다 다른 인물과 교환하여 무작위 배치.
+- 추가 역할 8종: 정원사(물주기), 독서가(책장 넘기기), 낚시꾼(낚싯대·찌), 풍선 상인(줄과 흔들리는 풍선), 과학자(확대경 관찰), 운동선수(스트레칭), 드러머(북 연주), 제빵사(반죽). 모자·복장·소품 및 팔·몸 동작을 구분하며 일시정지·사격 연출 중 함께 정지.
+- 식물원은 유리 온실·나무·화단, 해변은 노을·바다·범선·목재 산책로, 중앙역은 철골 지붕·열차·시계·승강장으로 구분. 신규 맵의 화단·벤치는 렌더링과 AI 경로 탐색이 같은 장애물 좌표를 사용.
 - 모든 인물은 장소·직업에 맞는 행동을 수행. 항구에서는 짐 운반·요리·장보기·사진 촬영, 축제에서는 춤·연주·박수·저글링, 눈꽃 마을에서는 스키·스케이트·제설·눈사람 만들기. 팔·다리·몸 기울기와 소품을 함께 움직이고 인물마다 동작 시차를 둠. 이동 위치는 명중 판정과 공유하며 활동과 소품 애니메이션은 일시정지·총알 추적 중 함께 정지.
 - 군중 AI는 직업 활동 → 목적지 이동 → 주변 관찰/인사 → 활동을 반복. 작업자는 작업 위치를 유지하고 이동자는 각자의 구역에서 무작위 목적지를 선택. 가속·감속, 이웃 회피, 탁자·화분·벤치 회피를 적용하며 막히면 대기 후 다시 행동. 걸음은 실제 이동 거리에 동기화하고 자세 전환을 보간.
 - 시설 모서리의 이동 지점을 연결해 짧은 우회 경로를 탐색하고, 이동 중 막히면 최대 두 번 재탐색. 작업 위치는 시작 시 시설 밖으로 보정해 복귀 목적지가 시설 안에 남지 않게 함. 걸을 때 번갈아 발을 들고, 달릴 때 몸을 더 기울이며, 대기 중에는 미세한 호흡 동작을 적용.
@@ -15,6 +17,7 @@
 - 실제 이동량에 따른 피로를 누적하고 속도를 최대 22% 낮춤. 안전한 상황에서 피로가 높으면 잠시 쉬며 회복하고, 위험 반응이 휴식보다 우선. 휴식 자세·피로·방문 예약은 일시정지와 사격 연출 중 함께 정지.
 - 명중·관찰 판정은 몸 기울기와 상하 움직임을 반영하며 인물이 겹치면 화면 앞쪽 인물을 우선 판정.
 - 빨강·흰 줄무늬 + 빨간 털모자 + 둥근 안경 공통 단서에 장소별로 검은 가방 / 노란 스카프 / 초록 스카프를 조합. 눈꽃 마을에서 윌리는 주기적으로 가림막 뒤에 숨음.
+- 식물원은 파란 스카프, 해변은 보라 스카프, 중앙역은 주황 스카프가 추가 식별 단서. 여섯 번째 미션 성공 시 캠페인을 완료하며 HUD와 미션 진행 표시가 미션 수를 따름.
 - 발사 시 `shot` 상태로 전환: 1.05초 총알 추적 → 명중 판정·혈흔 입자·몸 회전으로 넘어짐 → 2.45초 후 원래 전투 또는 결과 상태. 사격 연출 중 작전 시간·인물 이동·추가 사격·재장전·조준 입력을 중지하며, 일시정지와 창 전환 시 연출도 정지.
 - 혈흔 입자는 최대 18개이며 수명이 끝나면 제거. 쓰러진 인물은 다시 이동하거나 보상을 중복 지급하지 않음.
 - 마우스 / 터치 드래그 / 방향키로 조준. Space / 우클릭 / 버튼으로 스코프. F / 스코프에서 클릭 / 사격 버튼으로 발사.
@@ -25,4 +28,4 @@
 - 최고 기록 키 `shadowSniperBest`; 종료 시 공통 점수 이벤트 / Firebase 랭킹 사용. 온라인 기록에는 최신 `firestore.rules` 배포 필요.
 - 코드: `scripts/sniper-core.js` 규칙, `scripts/shadow-sniper.js` 렌더링·조작. 별도 이미지 자산 없이 자체 도형으로 전장과 인물 렌더링.
 - `node scripts/test-shadow-sniper.cjs`와 Playwright가 있는 NODE_PATH에서 `node scripts/test-shadow-sniper-browser.cjs`로 검증.
-- 설치된 Chromium을 지정하려면 `PLAYWRIGHT_EXECUTABLE_PATH` 사용. AI 검증은 세 장소 × 네 시드의 이동 경계·시설 충돌·자세 좌표·총성 반응·복귀 시뮬레이션을 포함.
+- 설치된 Chromium을 지정하려면 `PLAYWRIGHT_EXECUTABLE_PATH` 사용. AI 검증은 여섯 장소 × 네 시드의 이동 경계·시설 충돌·자세 좌표·총성 반응·복귀 시뮬레이션과 8종 신규 행동을 포함. 브라우저 검증은 여섯 맵 캡처·일시정지·모바일 조작·전체 캠페인 승리를 확인.
